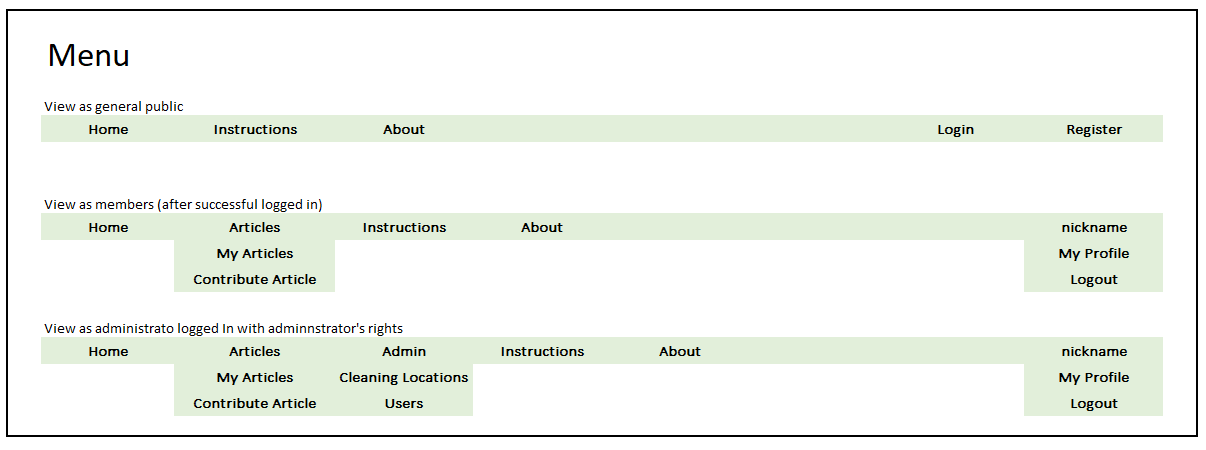
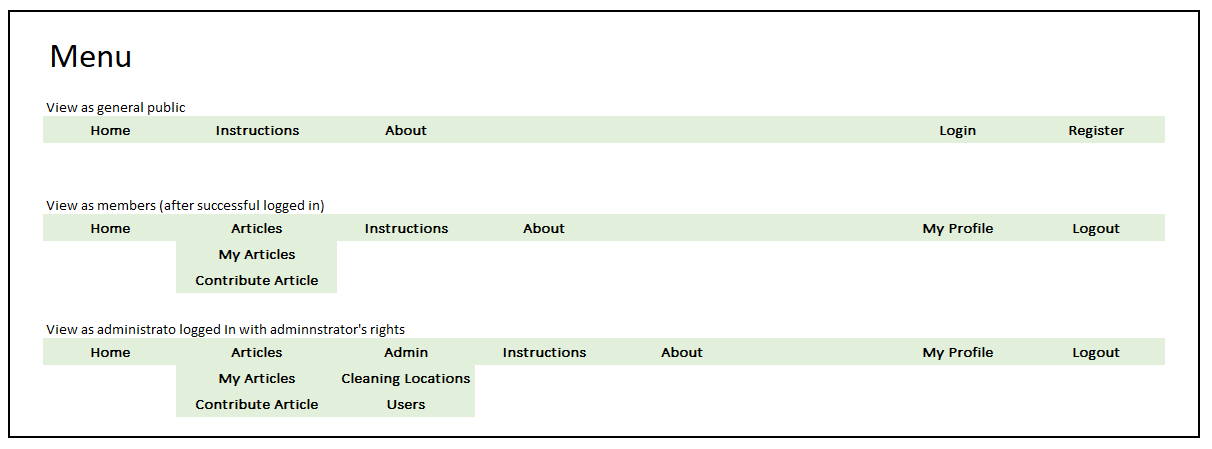
Customised menu item visibility based on role of the logged in user

diff --git a/templates/base.template.html b/templates/base.template.html
@@ -126,6 +126,7 @@ PAGE HEADER
                       >Home <span class="sr-only">(current)</span></a
                     >
                   </li>
+                   {% if current_user.is_authenticated %}
                   <li class="nav-item dropdown">
                     <a
                       class="nav-link dropdown-toggle"
@@ -154,6 +155,7 @@ PAGE HEADER
                       >
                     </div>
                   </li>
+                   {% if current_user.admin %}
                   <li class="nav-item dropdown">
                     <a
                       class="nav-link dropdown-toggle"
@@ -182,6 +184,8 @@ PAGE HEADER
                       >
                     </div>
                   </li>
+                  {% endif %}
+                  {% endif %}
                   <li class="nav-item">
                     <a class="nav-link" href="{{ url_for('instructions') }}"
                       >Instructions</a
@@ -194,6 +198,7 @@ PAGE HEADER
               </div>
               <div>
                 <ul class="navbar-nav">
+                  {% if not(current_user.is_authenticated) %}
                   <li class="nav-item">
                     <a class="nav-link" href="{{ url_for('login') }}">Login</a>
                   </li>
@@ -202,18 +207,21 @@ PAGE HEADER
                       >Register</a
                     >
                   </li>
+                  {% endif %}
                   {% if current_user.is_authenticated %}
                   <li class="nav-item">
                     <a class="nav-link" href="{{ url_for('my_profile') }}"
-                      >{{ current_user.nickname }}</a
+                      >{% if current_user.admin %}Admin:{% else %}User:{% endif %} {{ current_user.nickname }}</a
                     >
                   </li>
                   {% endif %}
+                  {% if current_user.is_authenticated %}
                   <li class="nav-item">
                     <a class="nav-link" href="{{ url_for('logout') }}"
                       >Logout</a
                     >
                   </li>
+                  {% endif %}
                 </ul>
               </div>
             </div>
